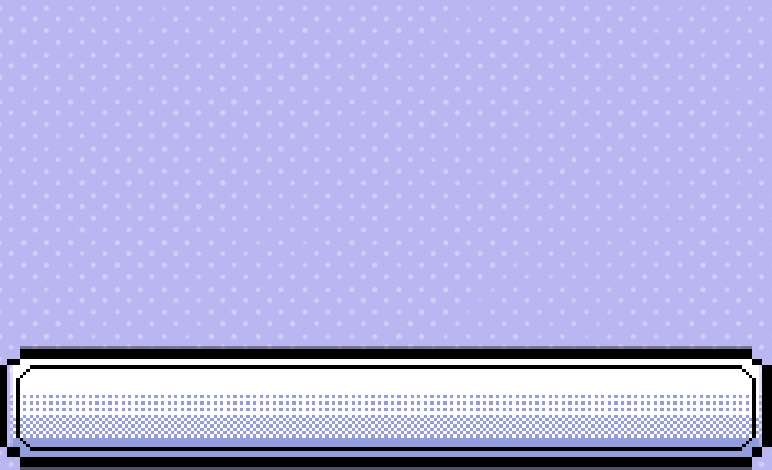
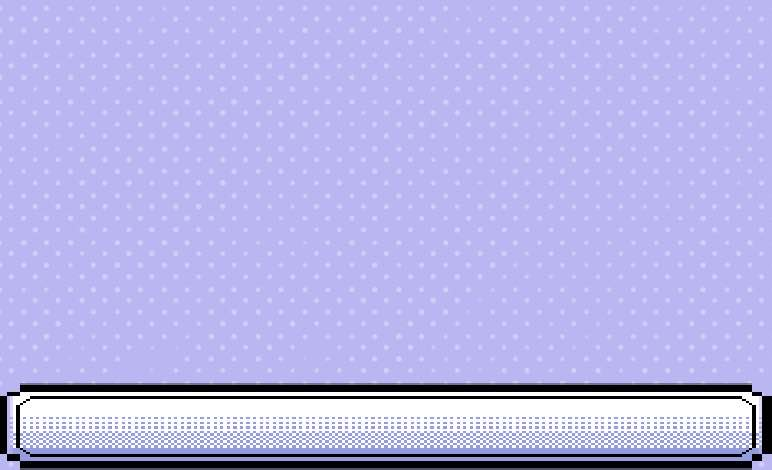
back_ground  img

Changed region(s): [[0.0, 0.7149, 1.0, 1.0]]

diff --git a/load_images.py b/load_images.py
@@ -11,10 +11,10 @@ start_button = button.Button((SCREEN_WIDTH - start_button_image.get_width() * 0.
 start_game_image = pygame.image.load("pictures/start_btn.png")
 # load start page buttons
 game_img = pygame.image.load('pictures/game.jpg')
-new_game = button.Button(SCREEN_WIDTH // 2 - 150, SCREEN_HEIGHT // 2, game_img, 0.06)
+new_game = button.Button(SCREEN_WIDTH // 2 - 150, SCREEN_HEIGHT // 2+120, game_img, 0.06)
 free_design_image = pygame.image.load('pictures/map_design.jpg')
-free_design = button.Button(SCREEN_WIDTH // 2 + 50, SCREEN_HEIGHT // 2 , free_design_image, 0.06)
-start_background = pygame.image.load('pictures/start_cov.jpg')
+free_design = button.Button(SCREEN_WIDTH // 2 + 50, SCREEN_HEIGHT // 2+120, free_design_image, 0.06)
+start_background = pygame.image.load('pictures/start_cov.png')
 start_background = pygame.transform.scale(start_background, (SCREEN_WIDTH, SCREEN_HEIGHT))
 # load design page buttons
 add_wire_image = pygame.image.load('pictures/add_wire.png')

diff --git a/main2.py b/main2.py
@@ -142,7 +142,7 @@ def draw_start_page():
     """Draw the start page."""
     global game_state, game_level
     game_level = 0
-    screen.fill(WHITE)
+    screen.blit(start_background, (0, 0))
     if new_game.draw(screen):
         game_stop()
         game_state = "game"
@@ -158,7 +158,7 @@ player_add = False
 def free_design_screen():
     """Draw the free design screen."""
     global game_state, props_list, player_add
-    screen.fill(WHITE)
+    screen.blit(game_cover_image, (0, 0))
 
     top_boundary = WALL(np.array([0, 0]), np.array([800, 13]))
     left_boundary = WALL(np.array([0, 0]), np.array([13, 486]))
@@ -308,6 +308,7 @@ def draw_game():
     """Draw the game screen."""
     global paused  # Ensure `paused` is accessible
     global render_E_simulation
+    screen.blit(game_cover_image, (0, 0))
 
     # Clear the screen
     screen.fill(WHITE)

diff --git a/physics/props.py b/physics/props.py
@@ -296,7 +296,7 @@ class SOLENOID(Props):
 
     def draw(self, screen):
         
-        screen.blit(self.image, self.image.get_rect(center=self.position))
+        screen.blit(self.image, self.rect)
 
     def b_field(self, point):
         """
